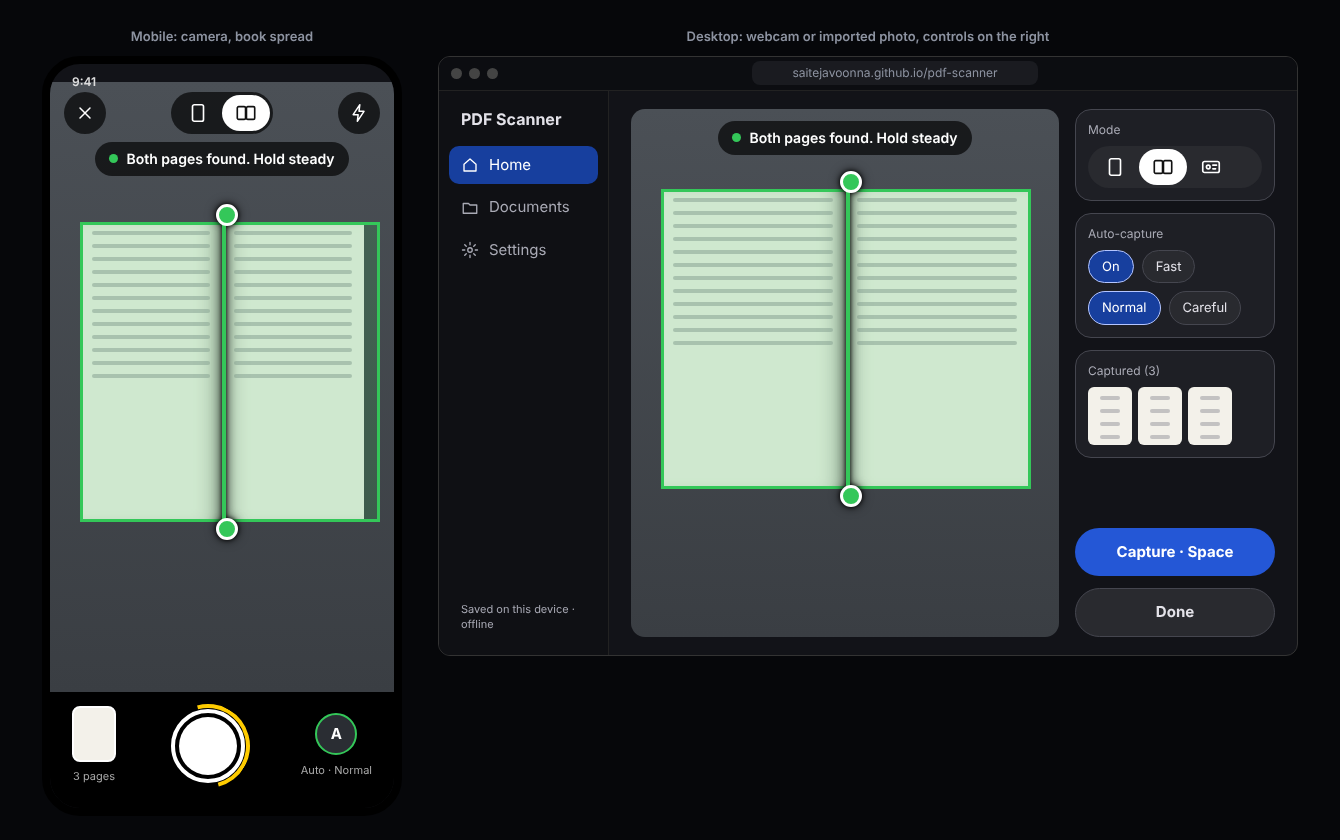
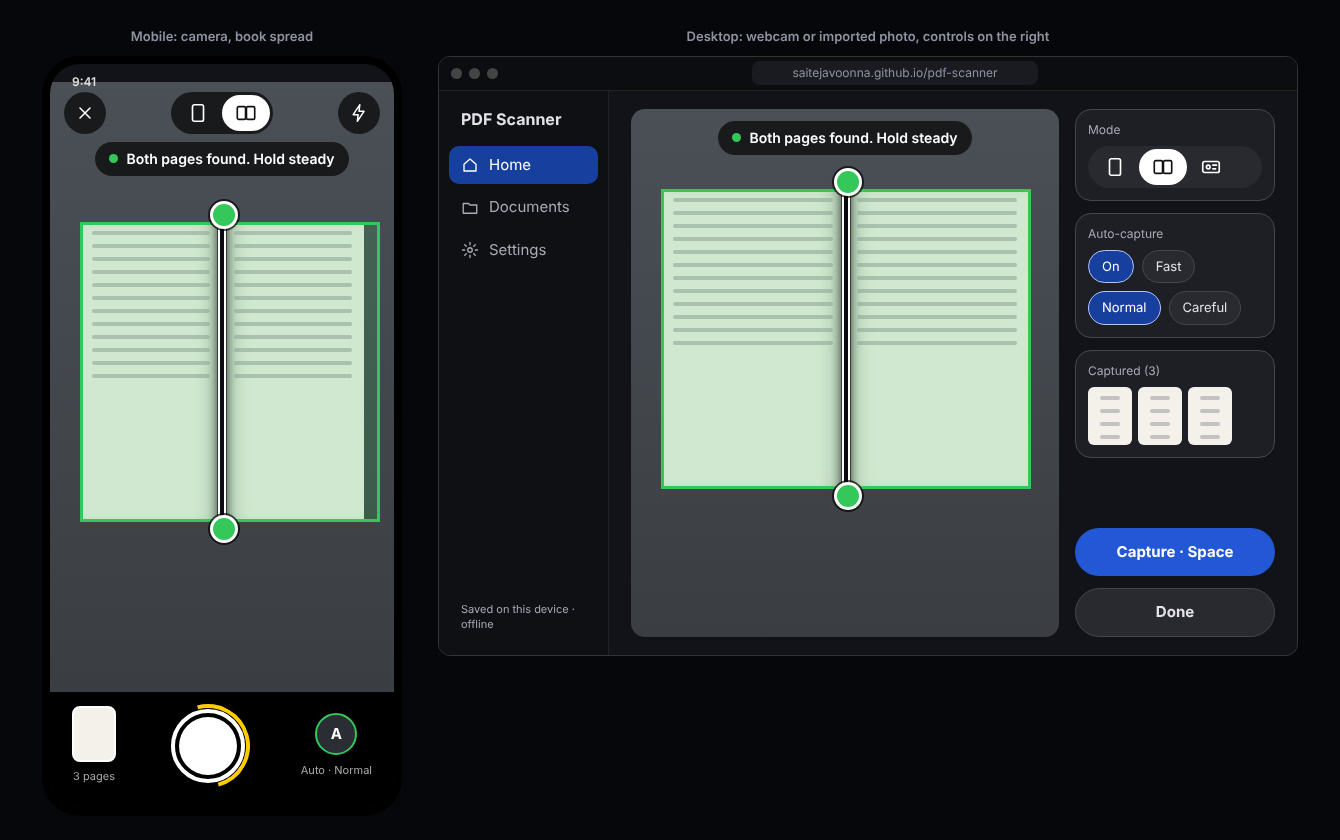
docs: fold line mock with dark core and white edges, shown on four backgrounds
Claude-Session: https://claude.ai/code/session_01K1tsQ7sZNKCwGP7gMpF3w1

Changed region(s): [[0.6119, 0.1857, 0.6425, 0.619], [0.153, 0.2167, 0.1836, 0.65]]

diff --git a/docs/mocks/mock-2b-fold-line.html b/docs/mocks/mock-2b-fold-line.html
@@ -1,0 +1,48 @@
+<!doctype html><meta charset="utf-8"><title>Fold line</title><style>
+:root{--bg:#121318;--surface:#1e1f25;--surface2:#292a2f;--text:#e3e2e9;--muted:#a9aab5;--line:#45464f;--pri:#2457d6;--pc:#173f9e;--soft:#b4c5ff;--ok:#34c759;--warn:#ffcc00;--danger:#ffb4ab}
+*{box-sizing:border-box;margin:0}body{background:#06070a;font:15px/1.35 system-ui,sans-serif;color:var(--text);padding:28px;display:flex;gap:36px;align-items:flex-start;justify-content:center}
+.col{display:flex;flex-direction:column;gap:10px;align-items:center}h3{font-size:13px;color:#8d93a1;font-weight:600}
+svg{stroke:currentColor;fill:none;stroke-width:1.8;stroke-linecap:round;stroke-linejoin:round;flex:none}
+.ph{width:360px;height:760px;background:var(--bg);border-radius:38px;border:8px solid #000;position:relative;overflow:hidden;display:flex;flex-direction:column}
+.dk{width:860px;height:600px;background:var(--bg);border-radius:12px;border:1px solid #333;position:relative;overflow:hidden;display:flex;flex-direction:column}
+.dk .chrome{height:34px;background:#0c0d11;display:flex;align-items:center;gap:7px;padding:0 12px;border-bottom:1px solid #222}.dk .chrome b{width:11px;height:11px;border-radius:50%;background:#444}.dk .chrome span{margin:0 auto;background:#1a1b20;border-radius:8px;padding:4px 40px;font-size:12px;color:#8d93a1}
+.dkb{flex:1;display:flex;min-height:0}.side{width:170px;background:#0f1014;border-right:1px solid #222;padding:14px 10px;display:flex;flex-direction:column;gap:4px}
+.side div{display:flex;gap:10px;align-items:center;padding:9px 12px;border-radius:10px;color:var(--muted)}.side .on{background:var(--pc);color:#fff}.side h4{padding:4px 12px 12px;font-size:16px;color:var(--text)}
+.main{flex:1;padding:18px 22px;overflow:hidden;position:relative;display:flex;flex-direction:column}
+.sb{display:flex;justify-content:space-between;padding:10px 22px 2px;font-size:12px;font-weight:600;color:var(--muted)}
+.hdr{display:flex;align-items:center;justify-content:space-between;padding:10px 14px 8px;gap:8px}.hdr h2{font-size:19px;flex:1;text-align:center}
+.ib{width:42px;height:42px;border-radius:50%;background:var(--surface2);display:grid;place-items:center;flex:none}.ib.d{background:#000a;color:#fff}
+.btn{border-radius:99px;padding:13px 20px;text-align:center;font-weight:700;background:var(--surface2);border:1px solid var(--line)}.btn.pri{background:var(--pri);border-color:transparent;color:#fff}.btn.w{background:#fff;color:#111}
+.card{background:var(--surface);border-radius:16px;border:1px solid var(--line)}.mut{color:var(--muted)}
+.i2{width:38px;height:38px;border-radius:11px;background:var(--pc);color:var(--soft);display:grid;place-items:center;flex:none}
+.p{background:#f3f1ea;border-radius:6px;overflow:hidden;width:100%;height:100%}.p i{display:block;height:4px;margin:9px 12px 0;background:#9a9aa0;opacity:.55;border-radius:2px}
+.tile{padding:14px;display:flex;flex-direction:column;gap:10px;align-items:flex-start;font-weight:700}
+.big{background:var(--pri);border-radius:20px;padding:18px;display:flex;align-items:center;gap:14px;color:#fff}
+.tg{display:grid;gap:12px}.t2{grid-template-columns:1fr 1fr}.t4{grid-template-columns:repeat(4,1fr)}
+.th{height:100px;background:var(--surface);border-radius:14px;padding:8px;position:relative;border:1px solid var(--line)}.th .p{height:100%}
+.cam{flex:1;background:linear-gradient(#4b5056,#3a3e43);position:relative;overflow:hidden}
+.bk{position:absolute;display:flex}.bk .p{border-radius:0}.bk .l{box-shadow:inset -18px 0 22px -14px #0007}.bk .r{box-shadow:inset 18px 0 22px -14px #0007}
+.tint{position:absolute;background:#34c75930;border:3px solid var(--ok)}
+.fold{position:absolute;width:8px;margin-left:-4px;background:#0b0c10;border-left:2px solid #fff;border-right:2px solid #fff;border-radius:2px;box-shadow:0 0 0 1px #0008,0 0 10px #000a}.fold:before,.fold:after{content:"";position:absolute;left:-10px;width:22px;height:22px;background:var(--ok);border:3px solid #fff;border-radius:50%;box-shadow:0 0 0 2px #000a}.fold:before{top:-11px}.fold:after{bottom:-11px}
+.pill{display:inline-flex;gap:8px;align-items:center;background:#000a;color:#fff;border-radius:99px;padding:8px 14px;font-weight:600;font-size:14px}.dot{width:9px;height:9px;border-radius:50%;background:var(--ok)}
+.seg{display:flex;background:#000a;border-radius:99px;padding:3px;color:#fff}.seg b{width:48px;height:36px;border-radius:99px;display:grid;place-items:center}.seg .on{background:#fff;color:#111}
+.ctl{display:flex;justify-content:space-between;align-items:center;padding:14px 22px 22px;background:#000;color:#fff}
+.shut{width:74px;height:74px;border-radius:50%;border:4px solid #fff;display:grid;place-items:center;position:relative;flex:none}.shut:before{content:"";width:58px;height:58px;border-radius:50%;background:#fff}.ring{position:absolute;inset:-9px;border-radius:50%;border:4px solid transparent;border-top-color:var(--warn);border-right-color:var(--warn);transform:rotate(30deg)}
+.grid{display:grid;gap:14px;align-content:start}.cell{background:var(--surface);border-radius:14px;padding:8px;position:relative}.cell.sel{outline:2px solid var(--soft)}
+.mn{position:absolute;right:-6px;top:-6px;width:24px;height:24px;border-radius:50%;background:#e5484d;display:grid;place-items:center;border:2px solid var(--bg);color:#fff;z-index:2}
+.nb{position:absolute;left:14px;bottom:14px;background:#000b;border-radius:99px;padding:2px 9px;font-size:12px;color:#fff}.dg{position:absolute;right:12px;bottom:12px;background:#000b;color:#fff;border-radius:8px;padding:2px 6px}
+.chk{position:absolute;left:14px;top:14px;background:var(--warn);color:#000;border-radius:99px;font-size:11px;font-weight:800;padding:2px 8px;z-index:2}
+.tb{display:flex;justify-content:space-around;padding:10px 6px;background:var(--surface);margin:0 12px 8px;border-radius:18px}.tb div{display:flex;flex-direction:column;align-items:center;gap:3px;font-size:11px;color:var(--muted)}
+.bot{display:flex;gap:10px;padding:8px 16px 18px}.bot .btn{flex:1}
+.chips{display:flex;gap:8px;flex-wrap:wrap}.chips span{background:var(--surface2);border:1px solid var(--line);border-radius:99px;padding:7px 13px;font-size:13px;display:inline-flex;gap:6px;align-items:center}.chips .on{background:var(--pc);border-color:var(--soft);color:#fff}
+.stage{flex:1;background:#0b0c10;position:relative}.crop{position:absolute;background:#f3f1ea}.crop i{display:block;height:5px;margin:14px 22px 0;background:#9a9aa0;opacity:.55;border-radius:3px}
+.q{position:absolute;border:2.5px solid var(--soft)}.hd{position:absolute;width:20px;height:20px;border-radius:50%;background:var(--soft);border:3px solid #fff}
+.fl{display:flex;gap:10px;padding:10px 14px}.fl div{width:66px;text-align:center;font-size:11px;color:var(--muted)}.fl .t{height:78px;border-radius:10px;margin-bottom:4px;border:2px solid transparent}.fl .on .t{border-color:var(--soft)}.fl .on{color:var(--text)}
+.sheet{position:absolute;background:var(--surface);padding:14px 16px 16px;border:1px solid var(--line)}.grab{width:40px;height:4px;background:#555;border-radius:3px;margin:0 auto 12px}
+.inp{background:var(--bg);border:1px solid var(--line);border-radius:12px;padding:12px;margin:9px 0}
+.sl{height:6px;background:var(--bg);border-radius:3px;margin:20px 6px 8px;position:relative}.sl b{position:absolute;left:0;width:62%;top:0;bottom:0;background:var(--soft);border-radius:3px}.sl u{position:absolute;left:62%;top:-8px;width:22px;height:22px;background:#fff;border-radius:50%;transform:translateX(-50%);box-shadow:0 1px 4px #000a}
+.lab{display:flex;justify-content:space-between;font-size:12px;color:var(--muted)}.lab .on{color:#fff;font-weight:700}
+.cust{display:flex;align-items:center;gap:8px;margin-top:10px}.num{flex:1;background:var(--bg);border:2px solid var(--soft);border-radius:12px;padding:10px 12px;font-size:20px;font-weight:700}.un{display:flex;background:var(--bg);border:1px solid var(--line);border-radius:12px;overflow:hidden}.un span{padding:12px 14px;font-weight:600}.un .on{background:var(--pc);color:#fff}
+.mini{display:flex;gap:9px;margin-top:12px}.mini div{flex:1;background:var(--bg);border:1px solid var(--line);border-radius:14px;padding:9px;text-align:center;font-size:12px;display:flex;flex-direction:column;align-items:center;gap:3px}
+.toast{position:absolute;background:#2e3038;border-radius:14px;padding:12px 14px;display:flex;justify-content:space-between;align-items:center;box-shadow:0 6px 20px #000a;gap:20px}
+</style><body><div class="col"><h3>On a white page, light desk</h3><div style="width:250px;height:330px;background:#d9dbe0;border-radius:14px;position:relative;overflow:hidden"><div class="bk" style="left:20px;right:20px;top:30px;height:260px"><div class="p l" style="background:#fbfbf8"><i></i><i></i><i></i><i></i><i></i><i></i><i></i><i></i><i></i><i></i></div><div class="p r" style="background:#fbfbf8"><i></i><i></i><i></i><i></i><i></i><i></i><i></i><i></i><i></i><i></i></div></div><div class="fold" style="left:50%;top:20px;height:280px"></div></div></div><div class="col"><h3>On a cream page, wood desk</h3><div style="width:250px;height:330px;background:#8a6a4a;border-radius:14px;position:relative;overflow:hidden"><div class="bk" style="left:20px;right:20px;top:30px;height:260px"><div class="p l" style="background:#f3f1ea"><i></i><i></i><i></i><i></i><i></i><i></i><i></i><i></i><i></i><i></i></div><div class="p r" style="background:#f3f1ea"><i></i><i></i><i></i><i></i><i></i><i></i><i></i><i></i><i></i><i></i></div></div><div class="fold" style="left:50%;top:20px;height:280px"></div></div></div><div class="col"><h3>On a dark desk</h3><div style="width:250px;height:330px;background:#1c1d21;border-radius:14px;position:relative;overflow:hidden"><div class="bk" style="left:20px;right:20px;top:30px;height:260px"><div class="p l" style="background:#e9e7df"><i></i><i></i><i></i><i></i><i></i><i></i><i></i><i></i><i></i><i></i></div><div class="p r" style="background:#e9e7df"><i></i><i></i><i></i><i></i><i></i><i></i><i></i><i></i><i></i><i></i></div></div><div class="fold" style="left:50%;top:20px;height:280px"></div></div></div><div class="col"><h3>Page with dark photo/ink</h3><div style="width:250px;height:330px;background:#3b3f44;border-radius:14px;position:relative;overflow:hidden"><div class="bk" style="left:20px;right:20px;top:30px;height:260px"><div class="p l" style="background:#b9b6ad"><i></i><i></i><i></i><i></i><i></i><i></i><i></i><i></i><i></i><i></i></div><div class="p r" style="background:#b9b6ad"><i></i><i></i><i></i><i></i><i></i><i></i><i></i><i></i><i></i><i></i></div></div><div class="fold" style="left:50%;top:20px;height:280px"></div></div></div></body>

diff --git a/docs/mocks/mock-1-home.html b/docs/mocks/mock-1-home.html
@@ -23,7 +23,7 @@ svg{stroke:currentColor;fill:none;stroke-width:1.8;stroke-linecap:round;stroke-l
 .cam{flex:1;background:linear-gradient(#4b5056,#3a3e43);position:relative;overflow:hidden}
 .bk{position:absolute;display:flex}.bk .p{border-radius:0}.bk .l{box-shadow:inset -18px 0 22px -14px #0007}.bk .r{box-shadow:inset 18px 0 22px -14px #0007}
 .tint{position:absolute;background:#34c75930;border:3px solid var(--ok)}
-.fold{position:absolute;border-left:4px solid var(--ok);filter:drop-shadow(0 0 2px #000) drop-shadow(0 0 5px #000a)}.fold:before,.fold:after{content:"";position:absolute;left:-10px;width:16px;height:16px;background:var(--ok);border:3px solid #fff;border-radius:50%}.fold:before{top:-8px}.fold:after{bottom:-8px}
+.fold{position:absolute;width:8px;margin-left:-4px;background:#0b0c10;border-left:2px solid #fff;border-right:2px solid #fff;border-radius:2px;box-shadow:0 0 0 1px #0008,0 0 10px #000a}.fold:before,.fold:after{content:"";position:absolute;left:-10px;width:22px;height:22px;background:var(--ok);border:3px solid #fff;border-radius:50%;box-shadow:0 0 0 2px #000a}.fold:before{top:-11px}.fold:after{bottom:-11px}
 .pill{display:inline-flex;gap:8px;align-items:center;background:#000a;color:#fff;border-radius:99px;padding:8px 14px;font-weight:600;font-size:14px}.dot{width:9px;height:9px;border-radius:50%;background:var(--ok)}
 .seg{display:flex;background:#000a;border-radius:99px;padding:3px;color:#fff}.seg b{width:48px;height:36px;border-radius:99px;display:grid;place-items:center}.seg .on{background:#fff;color:#111}
 .ctl{display:flex;justify-content:space-between;align-items:center;padding:14px 22px 22px;background:#000;color:#fff}

diff --git a/docs/mocks/mock-2-camera.html b/docs/mocks/mock-2-camera.html
@@ -23,7 +23,7 @@ svg{stroke:currentColor;fill:none;stroke-width:1.8;stroke-linecap:round;stroke-l
 .cam{flex:1;background:linear-gradient(#4b5056,#3a3e43);position:relative;overflow:hidden}
 .bk{position:absolute;display:flex}.bk .p{border-radius:0}.bk .l{box-shadow:inset -18px 0 22px -14px #0007}.bk .r{box-shadow:inset 18px 0 22px -14px #0007}
 .tint{position:absolute;background:#34c75930;border:3px solid var(--ok)}
-.fold{position:absolute;border-left:4px solid var(--ok);filter:drop-shadow(0 0 2px #000) drop-shadow(0 0 5px #000a)}.fold:before,.fold:after{content:"";position:absolute;left:-10px;width:16px;height:16px;background:var(--ok);border:3px solid #fff;border-radius:50%}.fold:before{top:-8px}.fold:after{bottom:-8px}
+.fold{position:absolute;width:8px;margin-left:-4px;background:#0b0c10;border-left:2px solid #fff;border-right:2px solid #fff;border-radius:2px;box-shadow:0 0 0 1px #0008,0 0 10px #000a}.fold:before,.fold:after{content:"";position:absolute;left:-10px;width:22px;height:22px;background:var(--ok);border:3px solid #fff;border-radius:50%;box-shadow:0 0 0 2px #000a}.fold:before{top:-11px}.fold:after{bottom:-11px}
 .pill{display:inline-flex;gap:8px;align-items:center;background:#000a;color:#fff;border-radius:99px;padding:8px 14px;font-weight:600;font-size:14px}.dot{width:9px;height:9px;border-radius:50%;background:var(--ok)}
 .seg{display:flex;background:#000a;border-radius:99px;padding:3px;color:#fff}.seg b{width:48px;height:36px;border-radius:99px;display:grid;place-items:center}.seg .on{background:#fff;color:#111}
 .ctl{display:flex;justify-content:space-between;align-items:center;padding:14px 22px 22px;background:#000;color:#fff}

diff --git a/docs/mocks/mock-3-pages.html b/docs/mocks/mock-3-pages.html
@@ -23,7 +23,7 @@ svg{stroke:currentColor;fill:none;stroke-width:1.8;stroke-linecap:round;stroke-l
 .cam{flex:1;background:linear-gradient(#4b5056,#3a3e43);position:relative;overflow:hidden}
 .bk{position:absolute;display:flex}.bk .p{border-radius:0}.bk .l{box-shadow:inset -18px 0 22px -14px #0007}.bk .r{box-shadow:inset 18px 0 22px -14px #0007}
 .tint{position:absolute;background:#34c75930;border:3px solid var(--ok)}
-.fold{position:absolute;border-left:4px solid var(--ok);filter:drop-shadow(0 0 2px #000) drop-shadow(0 0 5px #000a)}.fold:before,.fold:after{content:"";position:absolute;left:-10px;width:16px;height:16px;background:var(--ok);border:3px solid #fff;border-radius:50%}.fold:before{top:-8px}.fold:after{bottom:-8px}
+.fold{position:absolute;width:8px;margin-left:-4px;background:#0b0c10;border-left:2px solid #fff;border-right:2px solid #fff;border-radius:2px;box-shadow:0 0 0 1px #0008,0 0 10px #000a}.fold:before,.fold:after{content:"";position:absolute;left:-10px;width:22px;height:22px;background:var(--ok);border:3px solid #fff;border-radius:50%;box-shadow:0 0 0 2px #000a}.fold:before{top:-11px}.fold:after{bottom:-11px}
 .pill{display:inline-flex;gap:8px;align-items:center;background:#000a;color:#fff;border-radius:99px;padding:8px 14px;font-weight:600;font-size:14px}.dot{width:9px;height:9px;border-radius:50%;background:var(--ok)}
 .seg{display:flex;background:#000a;border-radius:99px;padding:3px;color:#fff}.seg b{width:48px;height:36px;border-radius:99px;display:grid;place-items:center}.seg .on{background:#fff;color:#111}
 .ctl{display:flex;justify-content:space-between;align-items:center;padding:14px 22px 22px;background:#000;color:#fff}

diff --git a/docs/mocks/mock-4-edit.html b/docs/mocks/mock-4-edit.html
@@ -23,7 +23,7 @@ svg{stroke:currentColor;fill:none;stroke-width:1.8;stroke-linecap:round;stroke-l
 .cam{flex:1;background:linear-gradient(#4b5056,#3a3e43);position:relative;overflow:hidden}
 .bk{position:absolute;display:flex}.bk .p{border-radius:0}.bk .l{box-shadow:inset -18px 0 22px -14px #0007}.bk .r{box-shadow:inset 18px 0 22px -14px #0007}
 .tint{position:absolute;background:#34c75930;border:3px solid var(--ok)}
-.fold{position:absolute;border-left:4px solid var(--ok);filter:drop-shadow(0 0 2px #000) drop-shadow(0 0 5px #000a)}.fold:before,.fold:after{content:"";position:absolute;left:-10px;width:16px;height:16px;background:var(--ok);border:3px solid #fff;border-radius:50%}.fold:before{top:-8px}.fold:after{bottom:-8px}
+.fold{position:absolute;width:8px;margin-left:-4px;background:#0b0c10;border-left:2px solid #fff;border-right:2px solid #fff;border-radius:2px;box-shadow:0 0 0 1px #0008,0 0 10px #000a}.fold:before,.fold:after{content:"";position:absolute;left:-10px;width:22px;height:22px;background:var(--ok);border:3px solid #fff;border-radius:50%;box-shadow:0 0 0 2px #000a}.fold:before{top:-11px}.fold:after{bottom:-11px}
 .pill{display:inline-flex;gap:8px;align-items:center;background:#000a;color:#fff;border-radius:99px;padding:8px 14px;font-weight:600;font-size:14px}.dot{width:9px;height:9px;border-radius:50%;background:var(--ok)}
 .seg{display:flex;background:#000a;border-radius:99px;padding:3px;color:#fff}.seg b{width:48px;height:36px;border-radius:99px;display:grid;place-items:center}.seg .on{background:#fff;color:#111}
 .ctl{display:flex;justify-content:space-between;align-items:center;padding:14px 22px 22px;background:#000;color:#fff}

diff --git a/docs/mocks/mock-5-create-pdf.html b/docs/mocks/mock-5-create-pdf.html
@@ -23,7 +23,7 @@ svg{stroke:currentColor;fill:none;stroke-width:1.8;stroke-linecap:round;stroke-l
 .cam{flex:1;background:linear-gradient(#4b5056,#3a3e43);position:relative;overflow:hidden}
 .bk{position:absolute;display:flex}.bk .p{border-radius:0}.bk .l{box-shadow:inset -18px 0 22px -14px #0007}.bk .r{box-shadow:inset 18px 0 22px -14px #0007}
 .tint{position:absolute;background:#34c75930;border:3px solid var(--ok)}
-.fold{position:absolute;border-left:4px solid var(--ok);filter:drop-shadow(0 0 2px #000) drop-shadow(0 0 5px #000a)}.fold:before,.fold:after{content:"";position:absolute;left:-10px;width:16px;height:16px;background:var(--ok);border:3px solid #fff;border-radius:50%}.fold:before{top:-8px}.fold:after{bottom:-8px}
+.fold{position:absolute;width:8px;margin-left:-4px;background:#0b0c10;border-left:2px solid #fff;border-right:2px solid #fff;border-radius:2px;box-shadow:0 0 0 1px #0008,0 0 10px #000a}.fold:before,.fold:after{content:"";position:absolute;left:-10px;width:22px;height:22px;background:var(--ok);border:3px solid #fff;border-radius:50%;box-shadow:0 0 0 2px #000a}.fold:before{top:-11px}.fold:after{bottom:-11px}
 .pill{display:inline-flex;gap:8px;align-items:center;background:#000a;color:#fff;border-radius:99px;padding:8px 14px;font-weight:600;font-size:14px}.dot{width:9px;height:9px;border-radius:50%;background:var(--ok)}
 .seg{display:flex;background:#000a;border-radius:99px;padding:3px;color:#fff}.seg b{width:48px;height:36px;border-radius:99px;display:grid;place-items:center}.seg .on{background:#fff;color:#111}
 .ctl{display:flex;justify-content:space-between;align-items:center;padding:14px 22px 22px;background:#000;color:#fff}

diff --git a/docs/mocks/build_mocks.py b/docs/mocks/build_mocks.py
@@ -41,7 +41,7 @@ svg{stroke:currentColor;fill:none;stroke-width:1.8;stroke-linecap:round;stroke-l
 .cam{flex:1;background:linear-gradient(#4b5056,#3a3e43);position:relative;overflow:hidden}
 .bk{position:absolute;display:flex}.bk .p{border-radius:0}.bk .l{box-shadow:inset -18px 0 22px -14px #0007}.bk .r{box-shadow:inset 18px 0 22px -14px #0007}
 .tint{position:absolute;background:#34c75930;border:3px solid var(--ok)}
-.fold{position:absolute;border-left:4px solid var(--ok);filter:drop-shadow(0 0 2px #000) drop-shadow(0 0 5px #000a)}.fold:before,.fold:after{content:"";position:absolute;left:-10px;width:16px;height:16px;background:var(--ok);border:3px solid #fff;border-radius:50%}.fold:before{top:-8px}.fold:after{bottom:-8px}
+.fold{position:absolute;width:8px;margin-left:-4px;background:#0b0c10;border-left:2px solid #fff;border-right:2px solid #fff;border-radius:2px;box-shadow:0 0 0 1px #0008,0 0 10px #000a}.fold:before,.fold:after{content:"";position:absolute;left:-10px;width:22px;height:22px;background:var(--ok);border:3px solid #fff;border-radius:50%;box-shadow:0 0 0 2px #000a}.fold:before{top:-11px}.fold:after{bottom:-11px}
 .pill{display:inline-flex;gap:8px;align-items:center;background:#000a;color:#fff;border-radius:99px;padding:8px 14px;font-weight:600;font-size:14px}.dot{width:9px;height:9px;border-radius:50%;background:var(--ok)}
 .seg{display:flex;background:#000a;border-radius:99px;padding:3px;color:#fff}.seg b{width:48px;height:36px;border-radius:99px;display:grid;place-items:center}.seg .on{background:#fff;color:#111}
 .ctl{display:flex;justify-content:space-between;align-items:center;padding:14px 22px 22px;background:#000;color:#fff}
@@ -157,3 +157,6 @@ d_pdf = desk('Desktop: centred dialog, preview beside the settings', '', f'''<di
 <div style="display:flex;gap:8px;margin-top:8px"><div style="width:100px;height:134px">{P(9)}</div><div style="width:100px;height:134px">{P(9)}</div></div><div class="mut" style="font-size:12px;margin-top:8px">3 pages · A4</div><div style="font-size:26px;font-weight:800;margin-top:14px">≈ 498 KB</div><div class="mut" style="font-size:12px">Estimated final size</div></div>
 <div style="flex:1">{sheet_inner}{actions}</div></div>''', 'Home')
 page('mock-5-create-pdf','Create PDF', m_pdf, d_pdf)
+
+bg3 = lambda name,bg,pg: f'<div class="col"><h3>{name}</h3><div style="width:250px;height:330px;background:{bg};border-radius:14px;position:relative;overflow:hidden"><div class="bk" style="left:20px;right:20px;top:30px;height:260px"><div class="p l" style="background:{pg}">{L(10)}</div><div class="p r" style="background:{pg}">{L(10)}</div></div><div class="fold" style="left:50%;top:20px;height:280px"></div></div></div>'
+page('mock-2b-fold-line','Fold line', bg3('On a white page, light desk','#d9dbe0','#fbfbf8'), bg3('On a cream page, wood desk','#8a6a4a','#f3f1ea'), bg3('On a dark desk','#1c1d21','#e9e7df'), bg3('Page with dark photo/ink','#3b3f44','#b9b6ad'))
